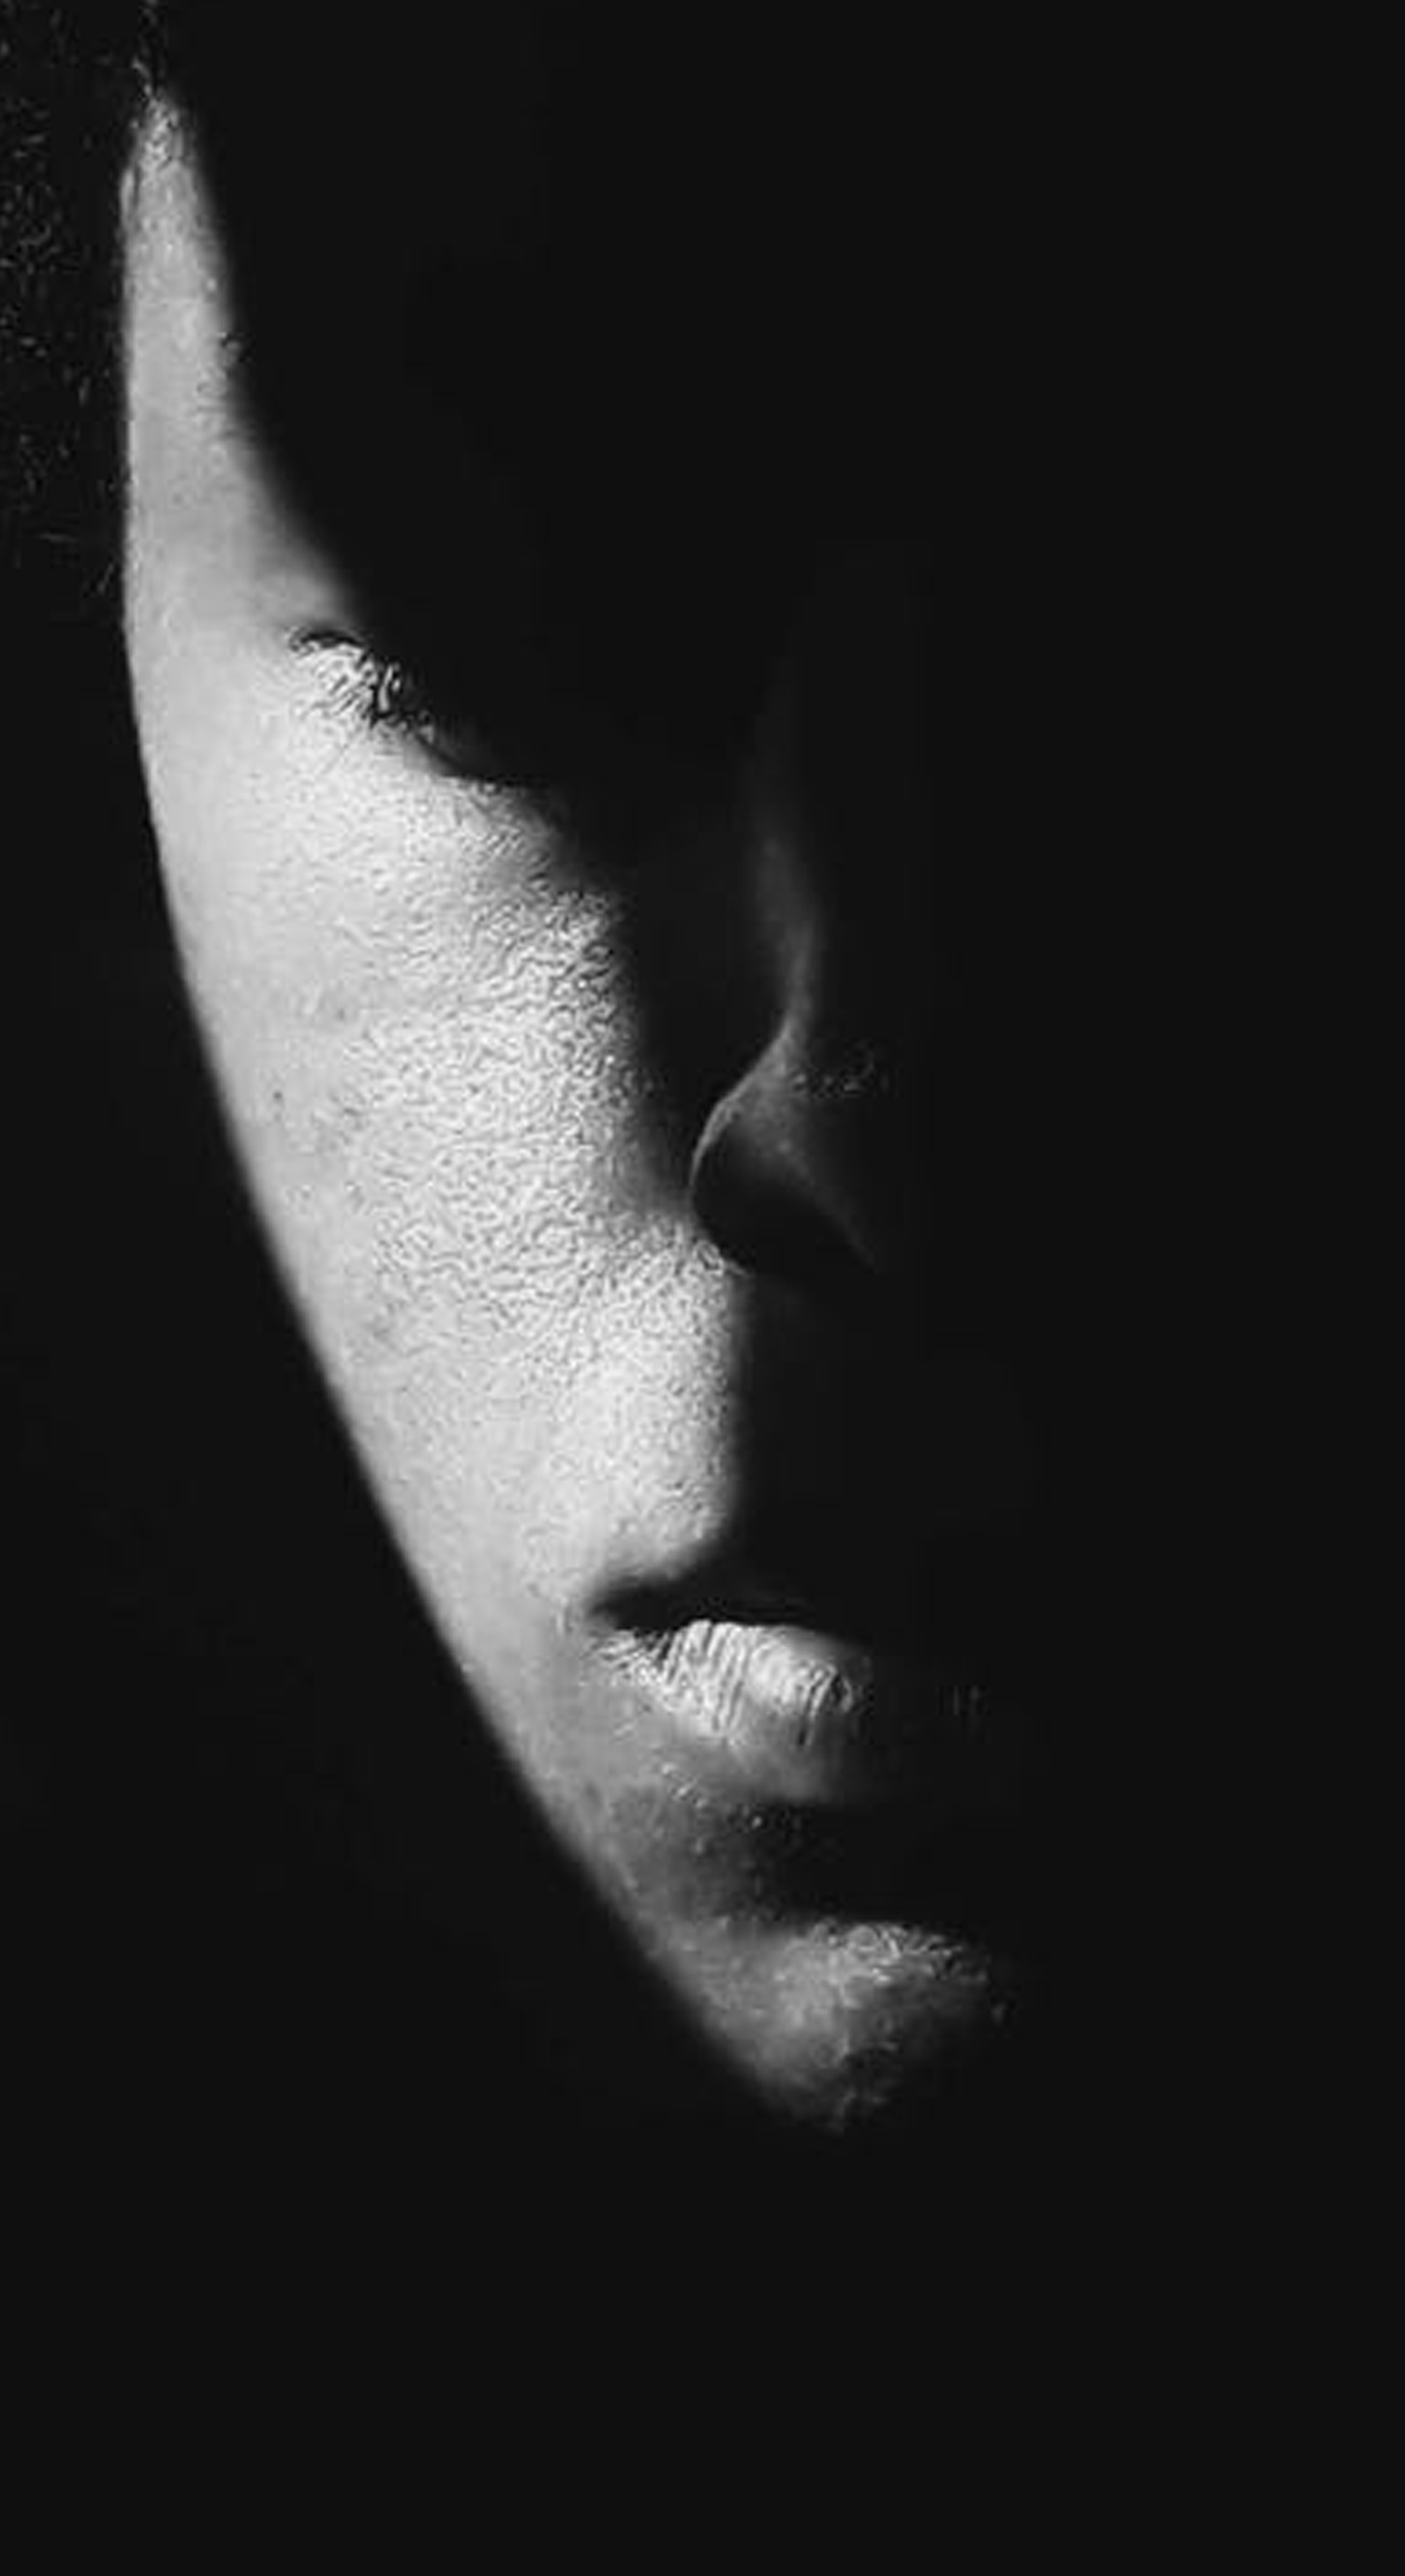
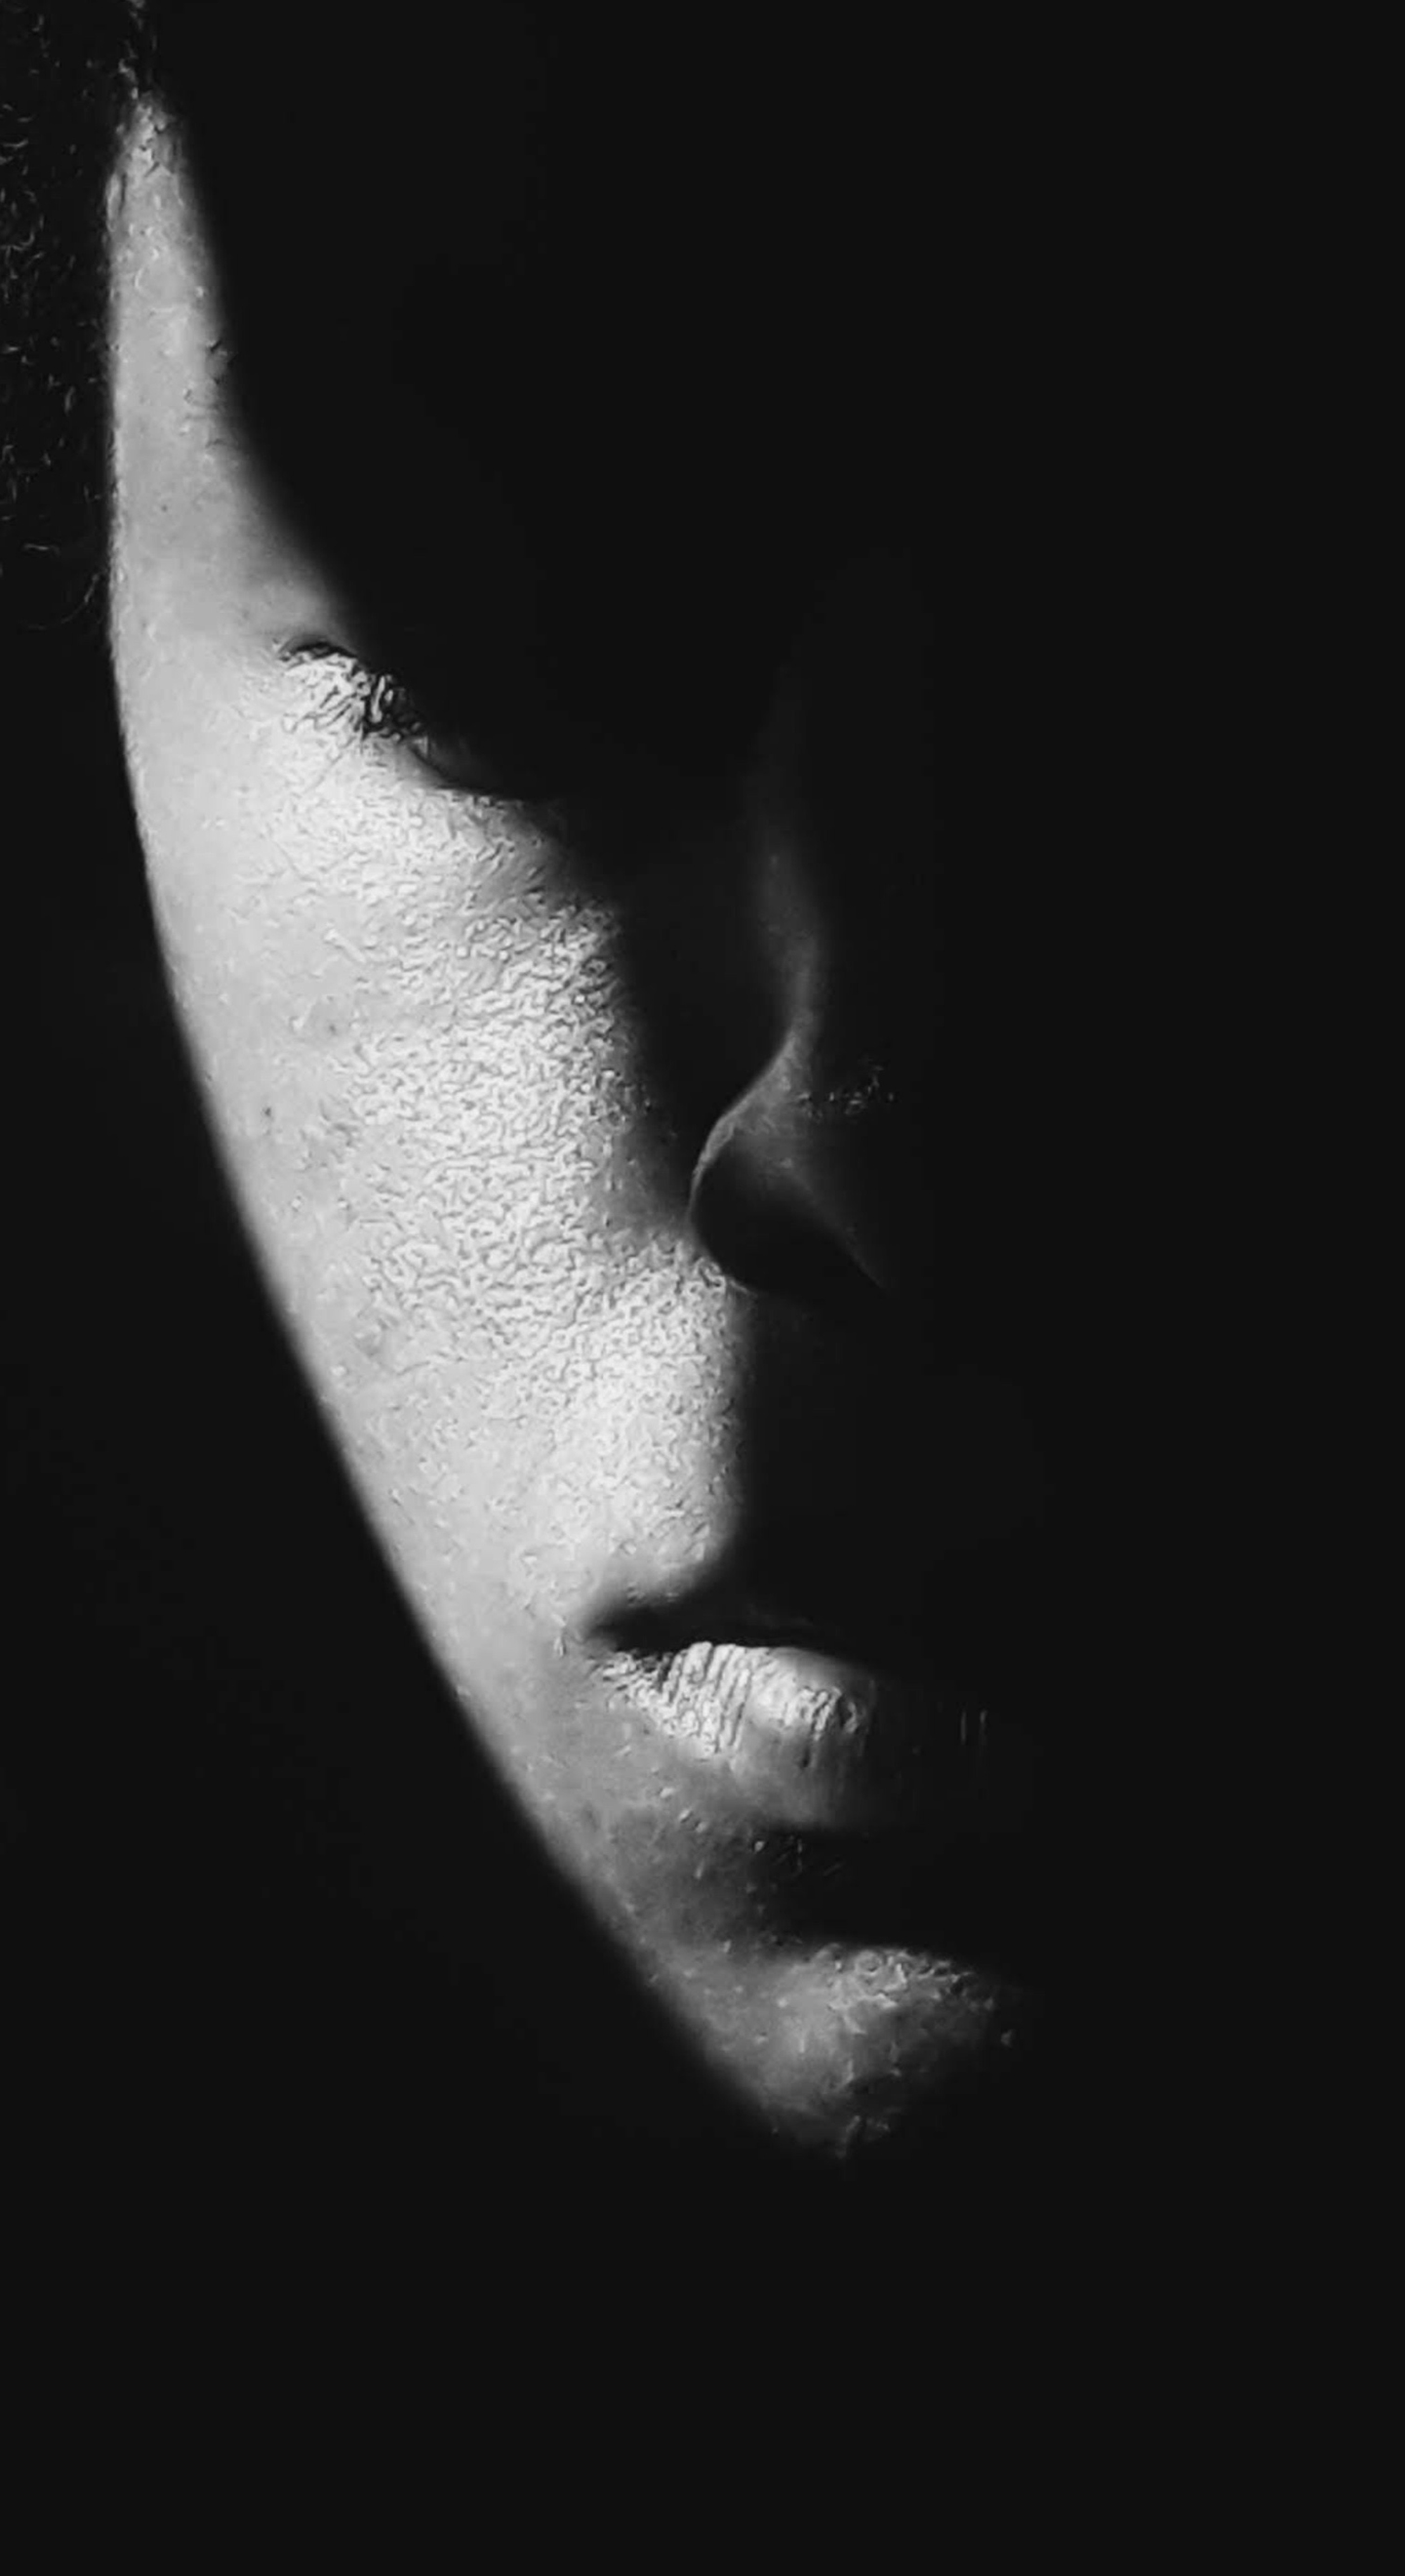
updated bg background highres

Changed region(s): [[0.0625, 0.0, 0.6875, 0.8386]]

diff --git a/assets/css/main.css b/assets/css/main.css
@@ -84,7 +84,7 @@ input, select, textarea {
 
 	body {
 		background-color: #183026;
-		background-image: url("images/overlay.png"), url("images/pexel.jpeg");
+		background-image: url("images/overlay.png"), url("images/bg.jpg");
 		background-repeat: repeat, no-repeat;
 		background-size: auto, cover;
 		background-position: top left, center 0;
@@ -2352,7 +2352,7 @@ input, select, textarea {
 
 			body {
 				background-color: #203936;
-				background-image: url("images/overlay.png"), url("images/pexel.jpeg");
+				background-image: url("images/overlay.png"), url("images/bg.jpg");
 				background-repeat: repeat, no-repeat;
 				background-size: auto, 100% auto;
 				background-position: top left, top center;
